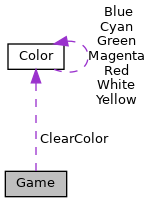
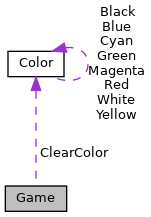
Deploying to gh-pages from @ pointThink/ocicat@bf127b20909a3c577025481c91e818f35c2101a8 🚀

Changed region(s): [[0.5298, 0.0, 0.9536, 0.5616], [0.0265, 0.6502, 0.7152, 1.0], [0.0265, 0.1773, 0.5298, 0.4433]]

diff --git a/classColor-members.html b/classColor-members.html
@@ -99,16 +99,17 @@ $(document).ready(function(){initNavTree('classColor.html',''); initResizable();
 
 <p>This is the complete list of members for <a class="el" href="classColor.html">Color</a>, including all inherited members.</p>
 <table class="directory">
-  <tr bgcolor="#f0f0f0" class="even"><td class="entry"><b>Blue</b> (defined in <a class="el" href="classColor.html">Color</a>)</td><td class="entry"><a class="el" href="classColor.html">Color</a></td><td class="entry"><span class="mlabel">static</span></td></tr>
-  <tr><td class="entry"><a class="el" href="classColor.html#acdaaf334482b87d84906055071979a9e">CreateFloat</a>(float r, float g, float b, float a)</td><td class="entry"><a class="el" href="classColor.html">Color</a></td><td class="entry"><span class="mlabel">inline</span><span class="mlabel">static</span></td></tr>
-  <tr class="even"><td class="entry"><a class="el" href="classColor.html#ad73b893b3e942730d2e0871b19e05f0c">CreateRGBA8</a>(byte r, byte g, byte b, byte a)</td><td class="entry"><a class="el" href="classColor.html">Color</a></td><td class="entry"><span class="mlabel">inline</span><span class="mlabel">static</span></td></tr>
-  <tr bgcolor="#f0f0f0"><td class="entry"><b>Cyan</b> (defined in <a class="el" href="classColor.html">Color</a>)</td><td class="entry"><a class="el" href="classColor.html">Color</a></td><td class="entry"><span class="mlabel">static</span></td></tr>
-  <tr bgcolor="#f0f0f0" class="even"><td class="entry"><b>Green</b> (defined in <a class="el" href="classColor.html">Color</a>)</td><td class="entry"><a class="el" href="classColor.html">Color</a></td><td class="entry"><span class="mlabel">static</span></td></tr>
-  <tr bgcolor="#f0f0f0"><td class="entry"><b>Magenta</b> (defined in <a class="el" href="classColor.html">Color</a>)</td><td class="entry"><a class="el" href="classColor.html">Color</a></td><td class="entry"><span class="mlabel">static</span></td></tr>
-  <tr bgcolor="#f0f0f0" class="even"><td class="entry"><b>R</b> (defined in <a class="el" href="classColor.html">Color</a>)</td><td class="entry"><a class="el" href="classColor.html">Color</a></td><td class="entry"></td></tr>
-  <tr bgcolor="#f0f0f0"><td class="entry"><b>Red</b> (defined in <a class="el" href="classColor.html">Color</a>)</td><td class="entry"><a class="el" href="classColor.html">Color</a></td><td class="entry"><span class="mlabel">static</span></td></tr>
-  <tr bgcolor="#f0f0f0" class="even"><td class="entry"><b>White</b> (defined in <a class="el" href="classColor.html">Color</a>)</td><td class="entry"><a class="el" href="classColor.html">Color</a></td><td class="entry"><span class="mlabel">static</span></td></tr>
-  <tr bgcolor="#f0f0f0"><td class="entry"><b>Yellow</b> (defined in <a class="el" href="classColor.html">Color</a>)</td><td class="entry"><a class="el" href="classColor.html">Color</a></td><td class="entry"><span class="mlabel">static</span></td></tr>
+  <tr bgcolor="#f0f0f0" class="even"><td class="entry"><b>Black</b> (defined in <a class="el" href="classColor.html">Color</a>)</td><td class="entry"><a class="el" href="classColor.html">Color</a></td><td class="entry"><span class="mlabel">static</span></td></tr>
+  <tr bgcolor="#f0f0f0"><td class="entry"><b>Blue</b> (defined in <a class="el" href="classColor.html">Color</a>)</td><td class="entry"><a class="el" href="classColor.html">Color</a></td><td class="entry"><span class="mlabel">static</span></td></tr>
+  <tr class="even"><td class="entry"><a class="el" href="classColor.html#acdaaf334482b87d84906055071979a9e">CreateFloat</a>(float r, float g, float b, float a)</td><td class="entry"><a class="el" href="classColor.html">Color</a></td><td class="entry"><span class="mlabel">inline</span><span class="mlabel">static</span></td></tr>
+  <tr><td class="entry"><a class="el" href="classColor.html#ad73b893b3e942730d2e0871b19e05f0c">CreateRGBA8</a>(byte r, byte g, byte b, byte a)</td><td class="entry"><a class="el" href="classColor.html">Color</a></td><td class="entry"><span class="mlabel">inline</span><span class="mlabel">static</span></td></tr>
+  <tr bgcolor="#f0f0f0" class="even"><td class="entry"><b>Cyan</b> (defined in <a class="el" href="classColor.html">Color</a>)</td><td class="entry"><a class="el" href="classColor.html">Color</a></td><td class="entry"><span class="mlabel">static</span></td></tr>
+  <tr bgcolor="#f0f0f0"><td class="entry"><b>Green</b> (defined in <a class="el" href="classColor.html">Color</a>)</td><td class="entry"><a class="el" href="classColor.html">Color</a></td><td class="entry"><span class="mlabel">static</span></td></tr>
+  <tr bgcolor="#f0f0f0" class="even"><td class="entry"><b>Magenta</b> (defined in <a class="el" href="classColor.html">Color</a>)</td><td class="entry"><a class="el" href="classColor.html">Color</a></td><td class="entry"><span class="mlabel">static</span></td></tr>
+  <tr bgcolor="#f0f0f0"><td class="entry"><b>R</b> (defined in <a class="el" href="classColor.html">Color</a>)</td><td class="entry"><a class="el" href="classColor.html">Color</a></td><td class="entry"></td></tr>
+  <tr bgcolor="#f0f0f0" class="even"><td class="entry"><b>Red</b> (defined in <a class="el" href="classColor.html">Color</a>)</td><td class="entry"><a class="el" href="classColor.html">Color</a></td><td class="entry"><span class="mlabel">static</span></td></tr>
+  <tr bgcolor="#f0f0f0"><td class="entry"><b>White</b> (defined in <a class="el" href="classColor.html">Color</a>)</td><td class="entry"><a class="el" href="classColor.html">Color</a></td><td class="entry"><span class="mlabel">static</span></td></tr>
+  <tr bgcolor="#f0f0f0" class="even"><td class="entry"><b>Yellow</b> (defined in <a class="el" href="classColor.html">Color</a>)</td><td class="entry"><a class="el" href="classColor.html">Color</a></td><td class="entry"><span class="mlabel">static</span></td></tr>
 </table></div><!-- contents -->
 </div><!-- doc-content -->
 <!-- start footer part -->

diff --git a/navtreeindex0.js b/navtreeindex0.js
@@ -82,19 +82,22 @@ var NAVTREEINDEX0 =
 "classCollisionAlgo.html#a2e2291a44d4597743845b86ed3b72b19":[3,0,12,0],
 "classCollisionAlgo.html#af05cd932600a1ea4d727e8b944ff0870":[3,0,12,1],
 "classColor.html":[3,0,14],
-"classColor.html#a1ab8523e9b72ccdaf53e45754f7daee0":[3,0,14,3],
-"classColor.html#a37db4aab64d06bf7e8b5347765073be8":[3,0,14,9],
-"classColor.html#a79bf752d243359fb8bf3ebd59a653c13":[3,0,14,8],
-"classColor.html#a8d65154b6c696d5f852a516af9bd6f8c":[3,0,14,2],
-"classColor.html#abdab8bf1062e19c9a2cfdb66a7bb0397":[3,0,14,4],
-"classColor.html#ac614a141ecd44e5fcdbb7079788ced10":[3,0,14,5],
-"classColor.html#ac9e0e3941127bbe794653f9f70dafa78":[3,0,14,6],
+"classColor.html#a1ab8523e9b72ccdaf53e45754f7daee0":[3,0,14,4],
+"classColor.html#a37db4aab64d06bf7e8b5347765073be8":[3,0,14,10],
+"classColor.html#a79bf752d243359fb8bf3ebd59a653c13":[3,0,14,9],
+"classColor.html#a8d65154b6c696d5f852a516af9bd6f8c":[3,0,14,3],
+"classColor.html#aa3b0a53553e12d1b2ab2be8bae385138":[3,0,14,2],
+"classColor.html#abdab8bf1062e19c9a2cfdb66a7bb0397":[3,0,14,5],
+"classColor.html#ac614a141ecd44e5fcdbb7079788ced10":[3,0,14,6],
+"classColor.html#ac9e0e3941127bbe794653f9f70dafa78":[3,0,14,7],
 "classColor.html#acdaaf334482b87d84906055071979a9e":[3,0,14,0],
 "classColor.html#ad73b893b3e942730d2e0871b19e05f0c":[3,0,14,1],
-"classColor.html#adf4e8bf5ae4bbf0d869e04cf7b6548b6":[3,0,14,7],
+"classColor.html#adf4e8bf5ae4bbf0d869e04cf7b6548b6":[3,0,14,8],
 "classFont.html":[3,0,16],
+"classFont.html#a43cd614c0dc0828f5ad4b9aca5c51700":[3,0,16,3],
 "classFont.html#a93ed2e36a9013bb472b2441d2ec2cc12":[3,0,16,0],
-"classFont.html#abcd0defb0c80bff4e31f228cb0b95039":[3,0,16,2],
+"classFont.html#a96fcadcce06131d67316629f567aba4e":[3,0,16,2],
+"classFont.html#abcd0defb0c80bff4e31f228cb0b95039":[3,0,16,4],
 "classFont.html#aea7e8b7fc6c59cf1975c31271edfb8dd":[3,0,16,1],
 "classFontGlyph.html":[3,0,17],
 "classFontGlyph.html#a0feafacd09d78749483936ea89f68d2e":[3,0,17,3],
@@ -246,8 +249,5 @@ var NAVTREEINDEX0 =
 "classRenderer.html":[3,0,36],
 "classRenderer.html#a0c5311874b67565b9e18736ec090d57b":[3,0,36,9],
 "classRenderer.html#a175998b6b8f2c85f6c226052dcaaf5b4":[3,0,36,19],
-"classRenderer.html#a2a82c2d84646a08951a5c55a862a1576":[3,0,36,6],
-"classRenderer.html#a3cadb58830c30942d74c3bf5b643ab9a":[3,0,36,5],
-"classRenderer.html#a424223f8d382b92fb72f17ed00ad513e":[3,0,36,21],
-"classRenderer.html#a478ce549347df14600478167cc8f5309":[3,0,36,8]
+"classRenderer.html#a2a82c2d84646a08951a5c55a862a1576":[3,0,36,6]
 };

diff --git a/classFont.html b/classFont.html
@@ -108,12 +108,18 @@ Public Member Functions</h2></td></tr>
 <tr class="separator:a93ed2e36a9013bb472b2441d2ec2cc12"><td class="memSeparator" colspan="2">&#160;</td></tr>
 <tr class="memitem:aea7e8b7fc6c59cf1975c31271edfb8dd"><td class="memItemLeft" align="right" valign="top"><a class="el" href="classFontGlyph.html">FontGlyph</a>&#160;</td><td class="memItemRight" valign="bottom"><a class="el" href="classFont.html#aea7e8b7fc6c59cf1975c31271edfb8dd">GetGlyph</a> (uint glyph)</td></tr>
 <tr class="separator:aea7e8b7fc6c59cf1975c31271edfb8dd"><td class="memSeparator" colspan="2">&#160;</td></tr>
+<tr class="memitem:a96fcadcce06131d67316629f567aba4e"><td class="memItemLeft" align="right" valign="top"><a id="a96fcadcce06131d67316629f567aba4e"></a>
+float&#160;</td><td class="memItemRight" valign="bottom"><b>GetStringSize</b> (string text)</td></tr>
+<tr class="separator:a96fcadcce06131d67316629f567aba4e"><td class="memSeparator" colspan="2">&#160;</td></tr>
 </table><table class="memberdecls">
 <tr class="heading"><td colspan="2"><h2 class="groupheader"><a name="pub-attribs"></a>
 Public Attributes</h2></td></tr>
 <tr class="memitem:abcd0defb0c80bff4e31f228cb0b95039"><td class="memItemLeft" align="right" valign="top"><a id="abcd0defb0c80bff4e31f228cb0b95039"></a>
 int&#160;</td><td class="memItemRight" valign="bottom"><b>SpaceSize</b> = 10</td></tr>
 <tr class="separator:abcd0defb0c80bff4e31f228cb0b95039"><td class="memSeparator" colspan="2">&#160;</td></tr>
+<tr class="memitem:a43cd614c0dc0828f5ad4b9aca5c51700"><td class="memItemLeft" align="right" valign="top"><a id="a43cd614c0dc0828f5ad4b9aca5c51700"></a>
+readonly uint&#160;</td><td class="memItemRight" valign="bottom"><b>FontSize</b></td></tr>
+<tr class="separator:a43cd614c0dc0828f5ad4b9aca5c51700"><td class="memSeparator" colspan="2">&#160;</td></tr>
 </table>
 <h2 class="groupheader">Member Function Documentation</h2>
 <a id="aea7e8b7fc6c59cf1975c31271edfb8dd"></a>

diff --git a/classFont-members.html b/classFont-members.html
@@ -100,7 +100,9 @@ $(document).ready(function(){initNavTree('classFont.html',''); initResizable(); 
 <p>This is the complete list of members for <a class="el" href="classFont.html">Font</a>, including all inherited members.</p>
 <table class="directory">
   <tr bgcolor="#f0f0f0" class="even"><td class="entry"><b>Font</b>(Renderer renderer, string path, uint size) (defined in <a class="el" href="classFont.html">Font</a>)</td><td class="entry"><a class="el" href="classFont.html">Font</a></td><td class="entry"><span class="mlabel">inline</span></td></tr>
-  <tr><td class="entry"><a class="el" href="classFont.html#aea7e8b7fc6c59cf1975c31271edfb8dd">GetGlyph</a>(uint glyph)</td><td class="entry"><a class="el" href="classFont.html">Font</a></td><td class="entry"><span class="mlabel">inline</span></td></tr>
+  <tr bgcolor="#f0f0f0"><td class="entry"><b>FontSize</b> (defined in <a class="el" href="classFont.html">Font</a>)</td><td class="entry"><a class="el" href="classFont.html">Font</a></td><td class="entry"></td></tr>
+  <tr class="even"><td class="entry"><a class="el" href="classFont.html#aea7e8b7fc6c59cf1975c31271edfb8dd">GetGlyph</a>(uint glyph)</td><td class="entry"><a class="el" href="classFont.html">Font</a></td><td class="entry"><span class="mlabel">inline</span></td></tr>
+  <tr bgcolor="#f0f0f0"><td class="entry"><b>GetStringSize</b>(string text) (defined in <a class="el" href="classFont.html">Font</a>)</td><td class="entry"><a class="el" href="classFont.html">Font</a></td><td class="entry"><span class="mlabel">inline</span></td></tr>
   <tr bgcolor="#f0f0f0" class="even"><td class="entry"><b>SpaceSize</b> (defined in <a class="el" href="classFont.html">Font</a>)</td><td class="entry"><a class="el" href="classFont.html">Font</a></td><td class="entry"></td></tr>
 </table></div><!-- contents -->
 </div><!-- doc-content -->

diff --git a/classColor.html b/classColor.html
@@ -106,7 +106,7 @@ Collaboration diagram for Color:</div>
 <div class="dyncontent">
 <div class="center"><img src="classColor__coll__graph.png" border="0" usemap="#aColor_coll__map" alt="Collaboration graph"/></div>
 <map name="aColor_coll__map" id="aColor_coll__map">
-<area shape="rect" title=" " alt="" coords="5,43,61,70"/>
+<area shape="rect" title=" " alt="" coords="5,51,61,77"/>
 </map>
 <center><span class="legend">[<a target="top" href="graph_legend.html">legend</a>]</span></center></div>
 <table class="memberdecls">
@@ -148,6 +148,9 @@ static readonly <a class="el" href="classColor.html">Color</a>&#160;</td><td cla
 <tr class="memitem:a1ab8523e9b72ccdaf53e45754f7daee0"><td class="memItemLeft" align="right" valign="top"><a id="a1ab8523e9b72ccdaf53e45754f7daee0"></a>
 static readonly <a class="el" href="classColor.html">Color</a>&#160;</td><td class="memItemRight" valign="bottom"><b>Cyan</b> = <a class="el" href="classColor.html#acdaaf334482b87d84906055071979a9e">CreateFloat</a>(0, 1, 1, 1)</td></tr>
 <tr class="separator:a1ab8523e9b72ccdaf53e45754f7daee0"><td class="memSeparator" colspan="2">&#160;</td></tr>
+<tr class="memitem:aa3b0a53553e12d1b2ab2be8bae385138"><td class="memItemLeft" align="right" valign="top"><a id="aa3b0a53553e12d1b2ab2be8bae385138"></a>
+static readonly <a class="el" href="classColor.html">Color</a>&#160;</td><td class="memItemRight" valign="bottom"><b>Black</b> = <a class="el" href="classColor.html#acdaaf334482b87d84906055071979a9e">CreateFloat</a>(0, 0, 0, 1)</td></tr>
+<tr class="separator:aa3b0a53553e12d1b2ab2be8bae385138"><td class="memSeparator" colspan="2">&#160;</td></tr>
 </table>
 <h2 class="groupheader">Member Function Documentation</h2>
 <a id="acdaaf334482b87d84906055071979a9e"></a>

diff --git a/classGame.html b/classGame.html
@@ -109,8 +109,8 @@ Collaboration diagram for Game:</div>
 <div class="dyncontent">
 <div class="center"><img src="classGame__coll__graph.png" border="0" usemap="#aGame_coll__map" alt="Collaboration graph"/></div>
 <map name="aGame_coll__map" id="aGame_coll__map">
-<area shape="rect" title="Abstracts all the low level functionality into an easy to use API." alt="" coords="5,171,67,197"/>
-<area shape="rect" href="classColor.html" title=" " alt="" coords="8,43,64,70"/>
+<area shape="rect" title="Abstracts all the low level functionality into an easy to use API." alt="" coords="5,185,67,212"/>
+<area shape="rect" href="classColor.html" title=" " alt="" coords="8,51,64,77"/>
 </map>
 <center><span class="legend">[<a target="top" href="graph_legend.html">legend</a>]</span></center></div>
 <table class="memberdecls">

diff --git a/classColor.js b/classColor.js
@@ -2,6 +2,7 @@ var classColor =
 [
     [ "CreateFloat", "classColor.html#acdaaf334482b87d84906055071979a9e", null ],
     [ "CreateRGBA8", "classColor.html#ad73b893b3e942730d2e0871b19e05f0c", null ],
+    [ "Black", "classColor.html#aa3b0a53553e12d1b2ab2be8bae385138", null ],
     [ "Blue", "classColor.html#a8d65154b6c696d5f852a516af9bd6f8c", null ],
     [ "Cyan", "classColor.html#a1ab8523e9b72ccdaf53e45754f7daee0", null ],
     [ "Green", "classColor.html#abdab8bf1062e19c9a2cfdb66a7bb0397", null ],

diff --git a/navtreeindex1.js b/navtreeindex1.js
@@ -1,5 +1,8 @@
 var NAVTREEINDEX1 =
 {
+"classRenderer.html#a3cadb58830c30942d74c3bf5b643ab9a":[3,0,36,5],
+"classRenderer.html#a424223f8d382b92fb72f17ed00ad513e":[3,0,36,21],
+"classRenderer.html#a478ce549347df14600478167cc8f5309":[3,0,36,8],
 "classRenderer.html#a5314e5d0f4221ff537dd2258520cb8af":[3,0,36,4],
 "classRenderer.html#a551c41de52b6e6e718ac5deb938086f4":[3,0,36,7],
 "classRenderer.html#a5b34a70d0e510f588e21ccc1ec4e9d4d":[3,0,36,3],

diff --git a/classFont.js b/classFont.js
@@ -2,5 +2,7 @@ var classFont =
 [
     [ "Font", "classFont.html#a93ed2e36a9013bb472b2441d2ec2cc12", null ],
     [ "GetGlyph", "classFont.html#aea7e8b7fc6c59cf1975c31271edfb8dd", null ],
+    [ "GetStringSize", "classFont.html#a96fcadcce06131d67316629f567aba4e", null ],
+    [ "FontSize", "classFont.html#a43cd614c0dc0828f5ad4b9aca5c51700", null ],
     [ "SpaceSize", "classFont.html#abcd0defb0c80bff4e31f228cb0b95039", null ]
 ];

diff --git a/navtreedata.js b/navtreedata.js
@@ -45,7 +45,7 @@ var NAVTREE =
 var NAVTREEINDEX =
 [
 "annotated.html",
-"classRenderer.html#a5314e5d0f4221ff537dd2258520cb8af"
+"classRenderer.html#a3cadb58830c30942d74c3bf5b643ab9a"
 ];
 
 var SYNCONMSG = 'click to disable panel synchronisation';
